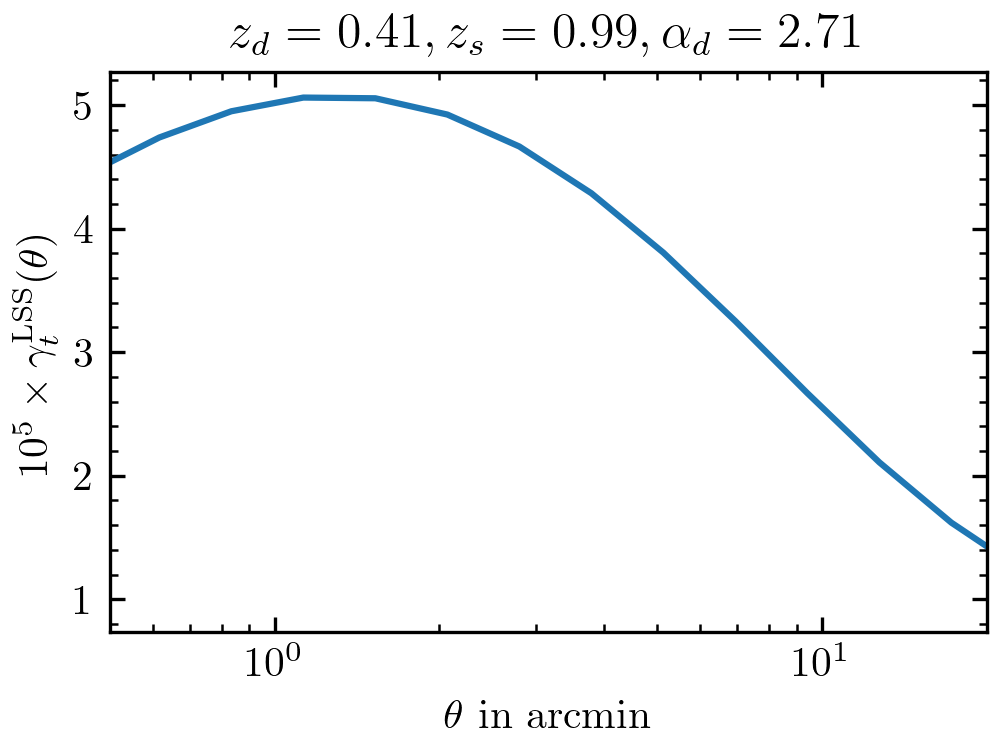
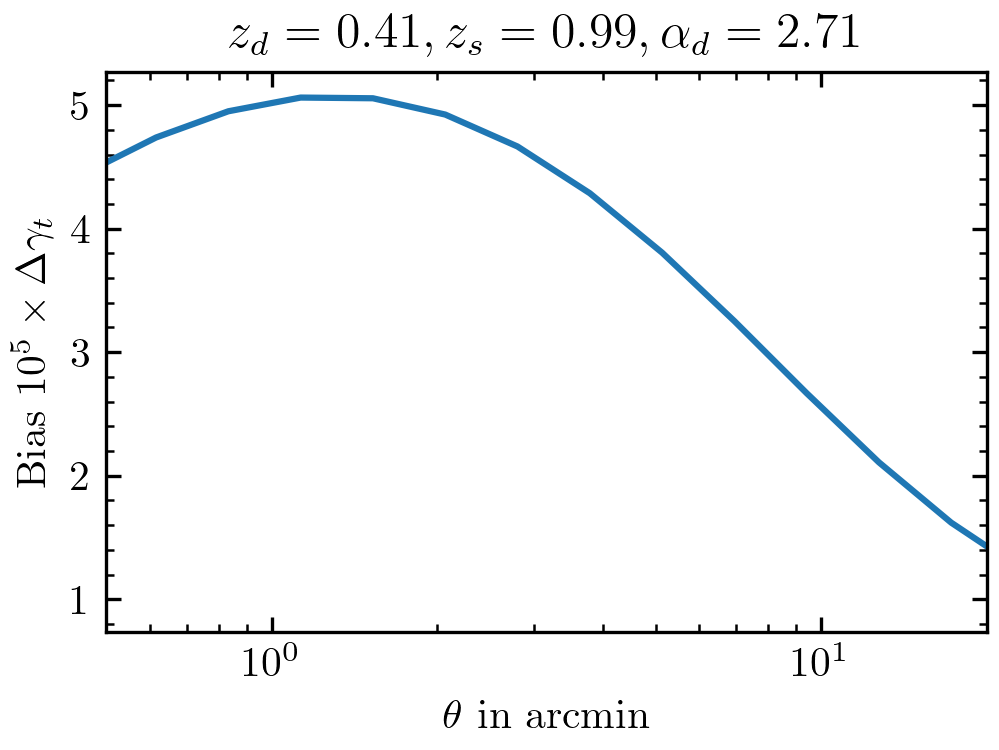
fixed typo

diff --git a/misc/lens_magnification/run.py b/misc/lens_magnification/run.py
@@ -34,7 +34,7 @@ plt.title(r'$z_d = {:.2f}, z_s = {:.2f}, \alpha_d = {:.2f}$'.format(
     z_d, z_s, alpha_d))
 plt.xscale('log')
 plt.xlabel(r'$\theta$ in arcmin')
-plt.ylabel(r'$10^5 \times \gamma_t^{\rm LSS} (\theta)$')
+plt.ylabel(r'Bias $10^5 \times \Delta \gamma_t$')
 plt.xlim(0.5, 20)
 plt.tight_layout(pad=0.3)
 plt.savefig('unruh_20.pdf')
